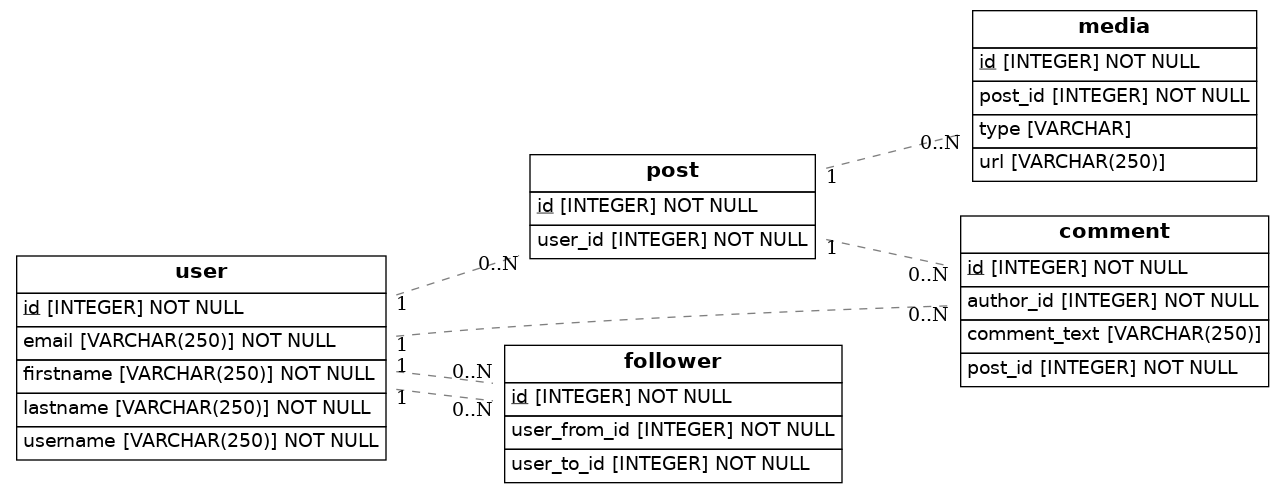
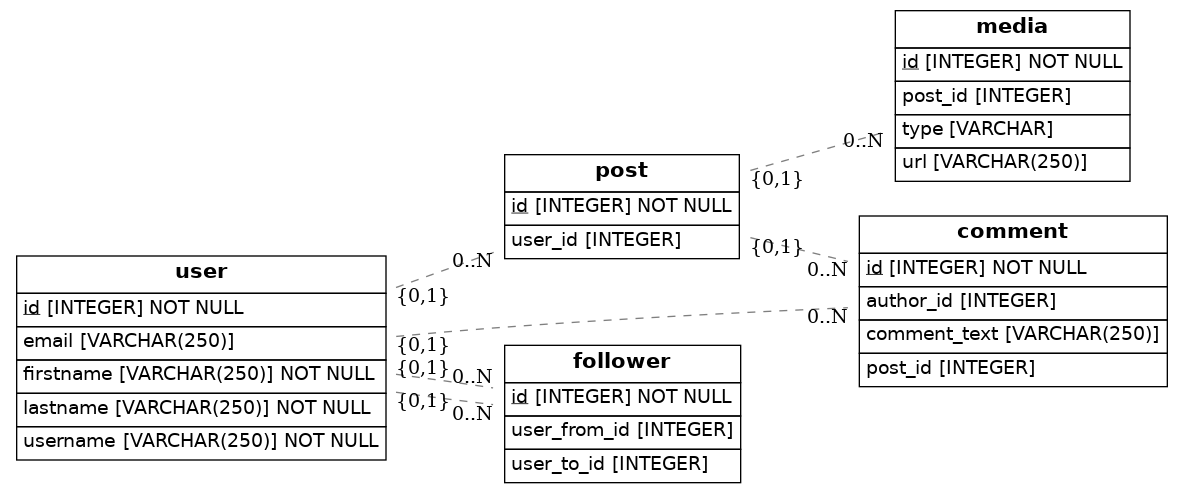
Final final

diff --git a/src/models.py b/src/models.py
@@ -15,7 +15,7 @@ class User(Base):
     username = Column(String(250), nullable=False)
     firstname = Column(String(250), nullable=False)
     lastname = Column(String(250), nullable=False)
-    email = Column(String(250), nullable=False)
+    email = Column(String(250), unique=True)
     comments = relationship('Comment', backref='user', lazy=True)
     posts = relationship('Post', backref='user', lazy=True)
     followers = relationship('Follower', backref='user', lazy=True)
@@ -26,7 +26,7 @@ class Post(Base):
     # Here we define columns for the table address.
     # Notice that each column is also a normal Python instance attribute.
     id = Column(Integer, primary_key=True)
-    user_id = Column(Integer, ForeignKey('user.id'), nullable=False)
+    user_id = Column(Integer, ForeignKey('user.id'))
     user = relationship('User', backref='user', lazy=True)
     comments = relationship('Comment', backref='comment', lazy=True)
     posts = relationship('Media', backref='media', lazy=True)
@@ -38,8 +38,8 @@ class Comment(Base):
     # Notice that each column is also a normal Python instance attribute.
     id = Column(Integer, primary_key=True)
     comment_text = Column(String(250))
-    author_id = Column(Integer, ForeignKey('user.id'), nullable=False)
-    post_id = Column(Integer, ForeignKey('post.id'), nullable=False)
+    author_id = Column(Integer, ForeignKey('user.id'))
+    post_id = Column(Integer, ForeignKey('post.id'))
 
 class Media(Base):
     __tablename__ = 'media'
@@ -48,15 +48,15 @@ class Media(Base):
     id = Column(Integer, primary_key=True)
     type = Column(String)
     url = Column(String(250))
-    post_id = Column(Integer, ForeignKey('post.id'), nullable=False)
+    post_id = Column(Integer, ForeignKey('post.id'))
 
 class Follower(Base):
     __tablename__ = 'follower'
     # Here we define columns for the table address.
     # Notice that each column is also a normal Python instance attribute.
     id = Column(Integer, primary_key=True)
-    user_from_id = Column(Integer, ForeignKey('user.id'), nullable=False)
-    user_to_id = Column(Integer, ForeignKey('user.id'), nullable=False)
+    user_from_id = Column(Integer, ForeignKey('user.id'))
+    user_to_id = Column(Integer, ForeignKey('user.id'))
 
 
     def to_dict(self):
